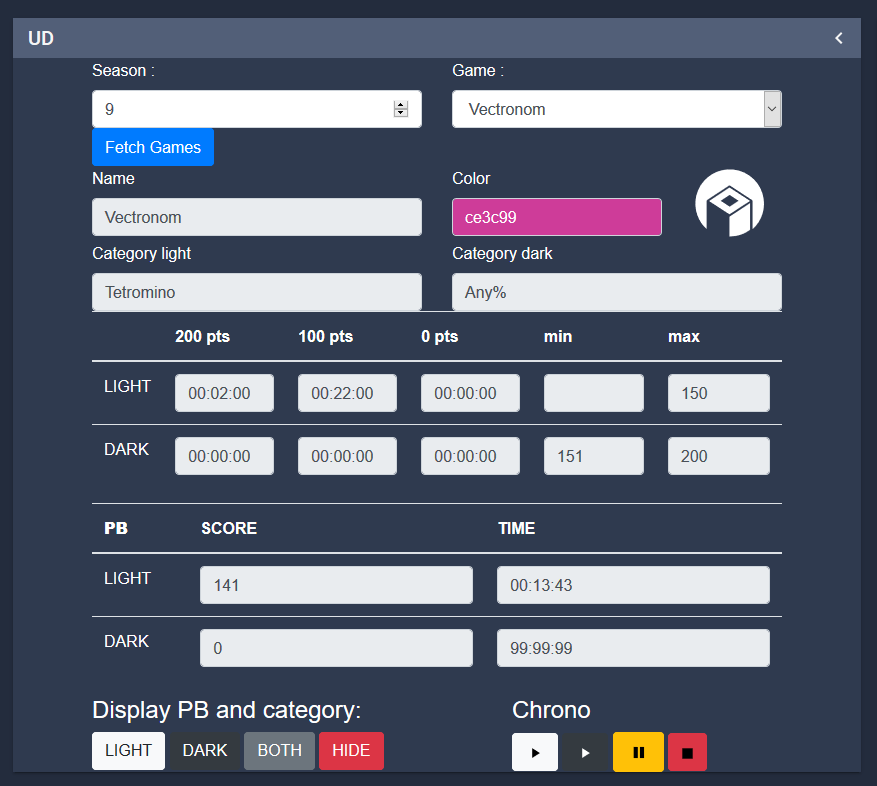
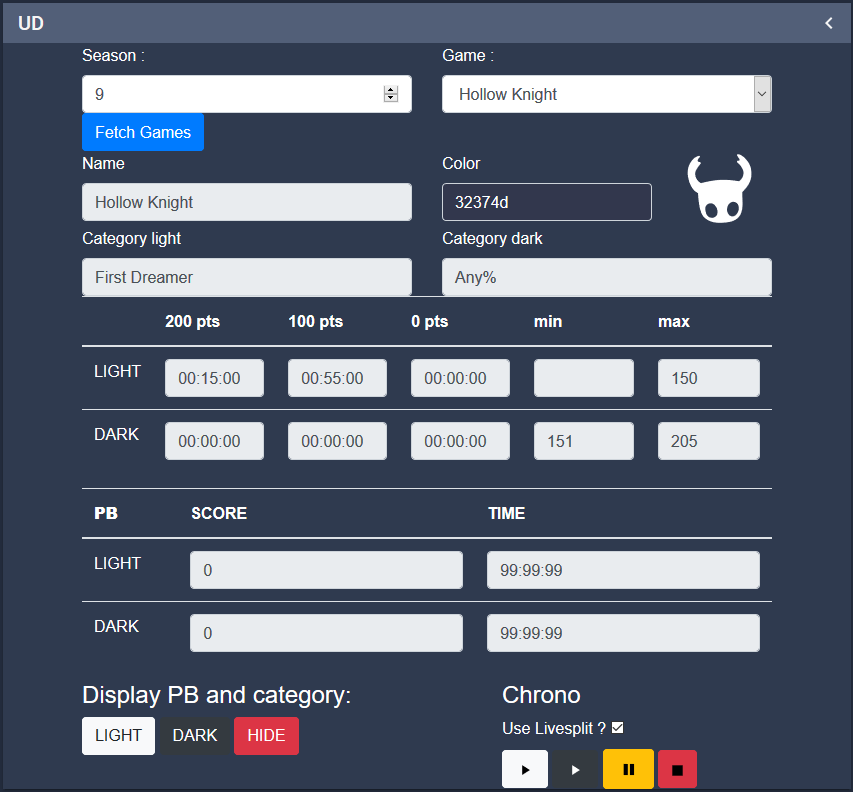
Add livesplit checkbox

diff --git a/dashboard/ud.html b/dashboard/ud.html
@@ -106,11 +106,13 @@
 			<h4>Display PB and category:</h4>
 			<a class="btn btn-light" id="sendPBLight">LIGHT</a>
 			<a class="btn btn-dark" id="sendPBDark">DARK</a>
-			<a class="btn btn-secondary" id="sendPBAgg">BOTH</a>
 			<a class="btn btn-danger" id="hidePB">HIDE</a>
 		</div>
 		<div class="col-4">
 			<h4>Chrono</h4>
+			<label for="callLivesplit">Use Livesplit ?</label>
+			<input id="callLivesplit" type="checkbox" checked />
+			</br>
 			<a class="btn btn-light" id="startLight">
 				<svg xmlns="http://www.w3.org/2000/svg" width="20px" height="20px" viewBox="0 0 26 26">
 					<polygon class="play-btn__svg" points="9.33 6.69 9.33 19.39 19.3 13.04 9.33 6.69"/>
@@ -149,9 +151,10 @@
 	const seasonInput = document.querySelector('#seasonInput');
 	const fetchGamesButton = document.querySelector('#fetchGamesButton');
 
+	const callLivesplit = document.querySelector('#callLivesplit');
+
 	const sendPBLight = document.querySelector('#sendPBLight');
 	const sendPBDark = document.querySelector('#sendPBDark');
-	const sendPBAgg = document.querySelector('#sendPBAgg');
 	const hidePB = document.querySelector('#hidePB');
 
 	const startLight = document.querySelector('#startLight');
@@ -180,6 +183,16 @@
 	const PbLightTime = document.querySelector('#PbLightTime');
 	const PbDarkScore = document.querySelector('#PbDarkScore');
 	const PbDarkTime = document.querySelector('#PbDarkTime');
+
+	livesplitConnection.on('change', (connectionStatus) => {
+		if (connectionStatus) {
+			callLivesplit.checked = true;
+			callLivesplit.disabled = false;
+		} else {
+			callLivesplit.checked = false;
+			callLivesplit.disabled = true;
+		}
+	});
 
 	let flip = true,
 		pauseSvg = "M11,10 L18,13.74 18,22.28 11,26 M18,13.74 L26,18 26,18 18,22.28",
@@ -215,7 +228,9 @@
 				}
 			);
 
-			nodecg.sendMessageToBundle('livesplit:sendAction', 'ncg-ud-stream', 'starttimer');
+			if (callLivesplit.checked) {
+				nodecg.sendMessageToBundle('livesplit:sendAction', 'ncg-ud-stream', 'starttimer');
+			}
 		};
 		startDark.onclick = () => {
 			nodecg.sendMessage(
@@ -237,19 +252,34 @@
 				}
 			);
 
-			nodecg.sendMessageToBundle('livesplit:sendAction', 'ncg-ud-stream', 'starttimer');
+			if (callLivesplit.checked) {
+				nodecg.sendMessageToBundle('livesplit:sendAction', 'ncg-ud-stream', 'starttimer');
+			}
 		};
 		stop.onclick = () => {
 			nodecg.sendMessage('stopTimer');
 
-			nodecg.sendMessageToBundle('livesplit:sendAction', 'ncg-ud-stream', 'reset');
+			if ('resume' === pause.dataset.todo) {
+				pause.dataset.todo = 'pause';
+
+				$animation.attr({
+					"from": pauseSvg,
+					"to": playSvg
+				}).get(0).beginElement();
+			}
+
+			if (callLivesplit.checked) {
+				nodecg.sendMessageToBundle('livesplit:sendAction', 'ncg-ud-stream', 'reset');
+			}
 		};
 
 		pause.onclick = () => {
 			if ('pause' === pause.dataset.todo) {
 				nodecg.sendMessage('pauseTimer');
 
-				nodecg.sendMessageToBundle('livesplit:sendAction', 'ncg-ud-stream', 'pause');
+				if (callLivesplit.checked) {
+					nodecg.sendMessageToBundle('livesplit:sendAction', 'ncg-ud-stream', 'pause');
+				}
 
 				pause.dataset.todo = 'resume';
 
@@ -260,7 +290,9 @@
 			} else {
 				nodecg.sendMessage('resumeTimer');
 
-				nodecg.sendMessageToBundle('livesplit:sendAction', 'ncg-ud-stream', 'resume');
+				if (callLivesplit.checked) {
+					nodecg.sendMessageToBundle('livesplit:sendAction', 'ncg-ud-stream', 'resume');
+				}
 
 				pause.dataset.todo = 'pause';
 
@@ -299,39 +331,6 @@
 					category: gameCategoryDark.value,
 					score: parseInt(PbDarkScore.value),
 					time: PbDarkTime.value,
-					glyph: {
-						width: gameSvg.dataset.width,
-						path: gameSvgPath.getAttribute('d')
-					}
-				}
-			);
-
-			sendGameGlyph(gameSelect.value, seasonInput.value);
-		};
-		sendPBAgg.onclick = () => {
-			let lightScore = parseInt(PbLightScore.value);
-			let darkScore = parseInt(PbDarkScore.value) ?? 0;
-			let lightTime = PbLightTime.value;
-			let darkTime = PbDarkTime.value;
-
-			let score;
-			let time;
-			if (lightScore > darkScore) {
-				score = lightScore;
-				time = lightTime;
-			} else {
-				score = darkScore;
-				time = darkTime;
-			}
-
-			nodecg.sendMessage(
-				'showPB',
-				{
-					color: gameColor.value,
-					game: gameSelect.value,
-					category: gameCategoryDark.value,
-					score: score,
-					time: time,
 					glyph: {
 						width: gameSvg.dataset.width,
 						path: gameSvgPath.getAttribute('d')
